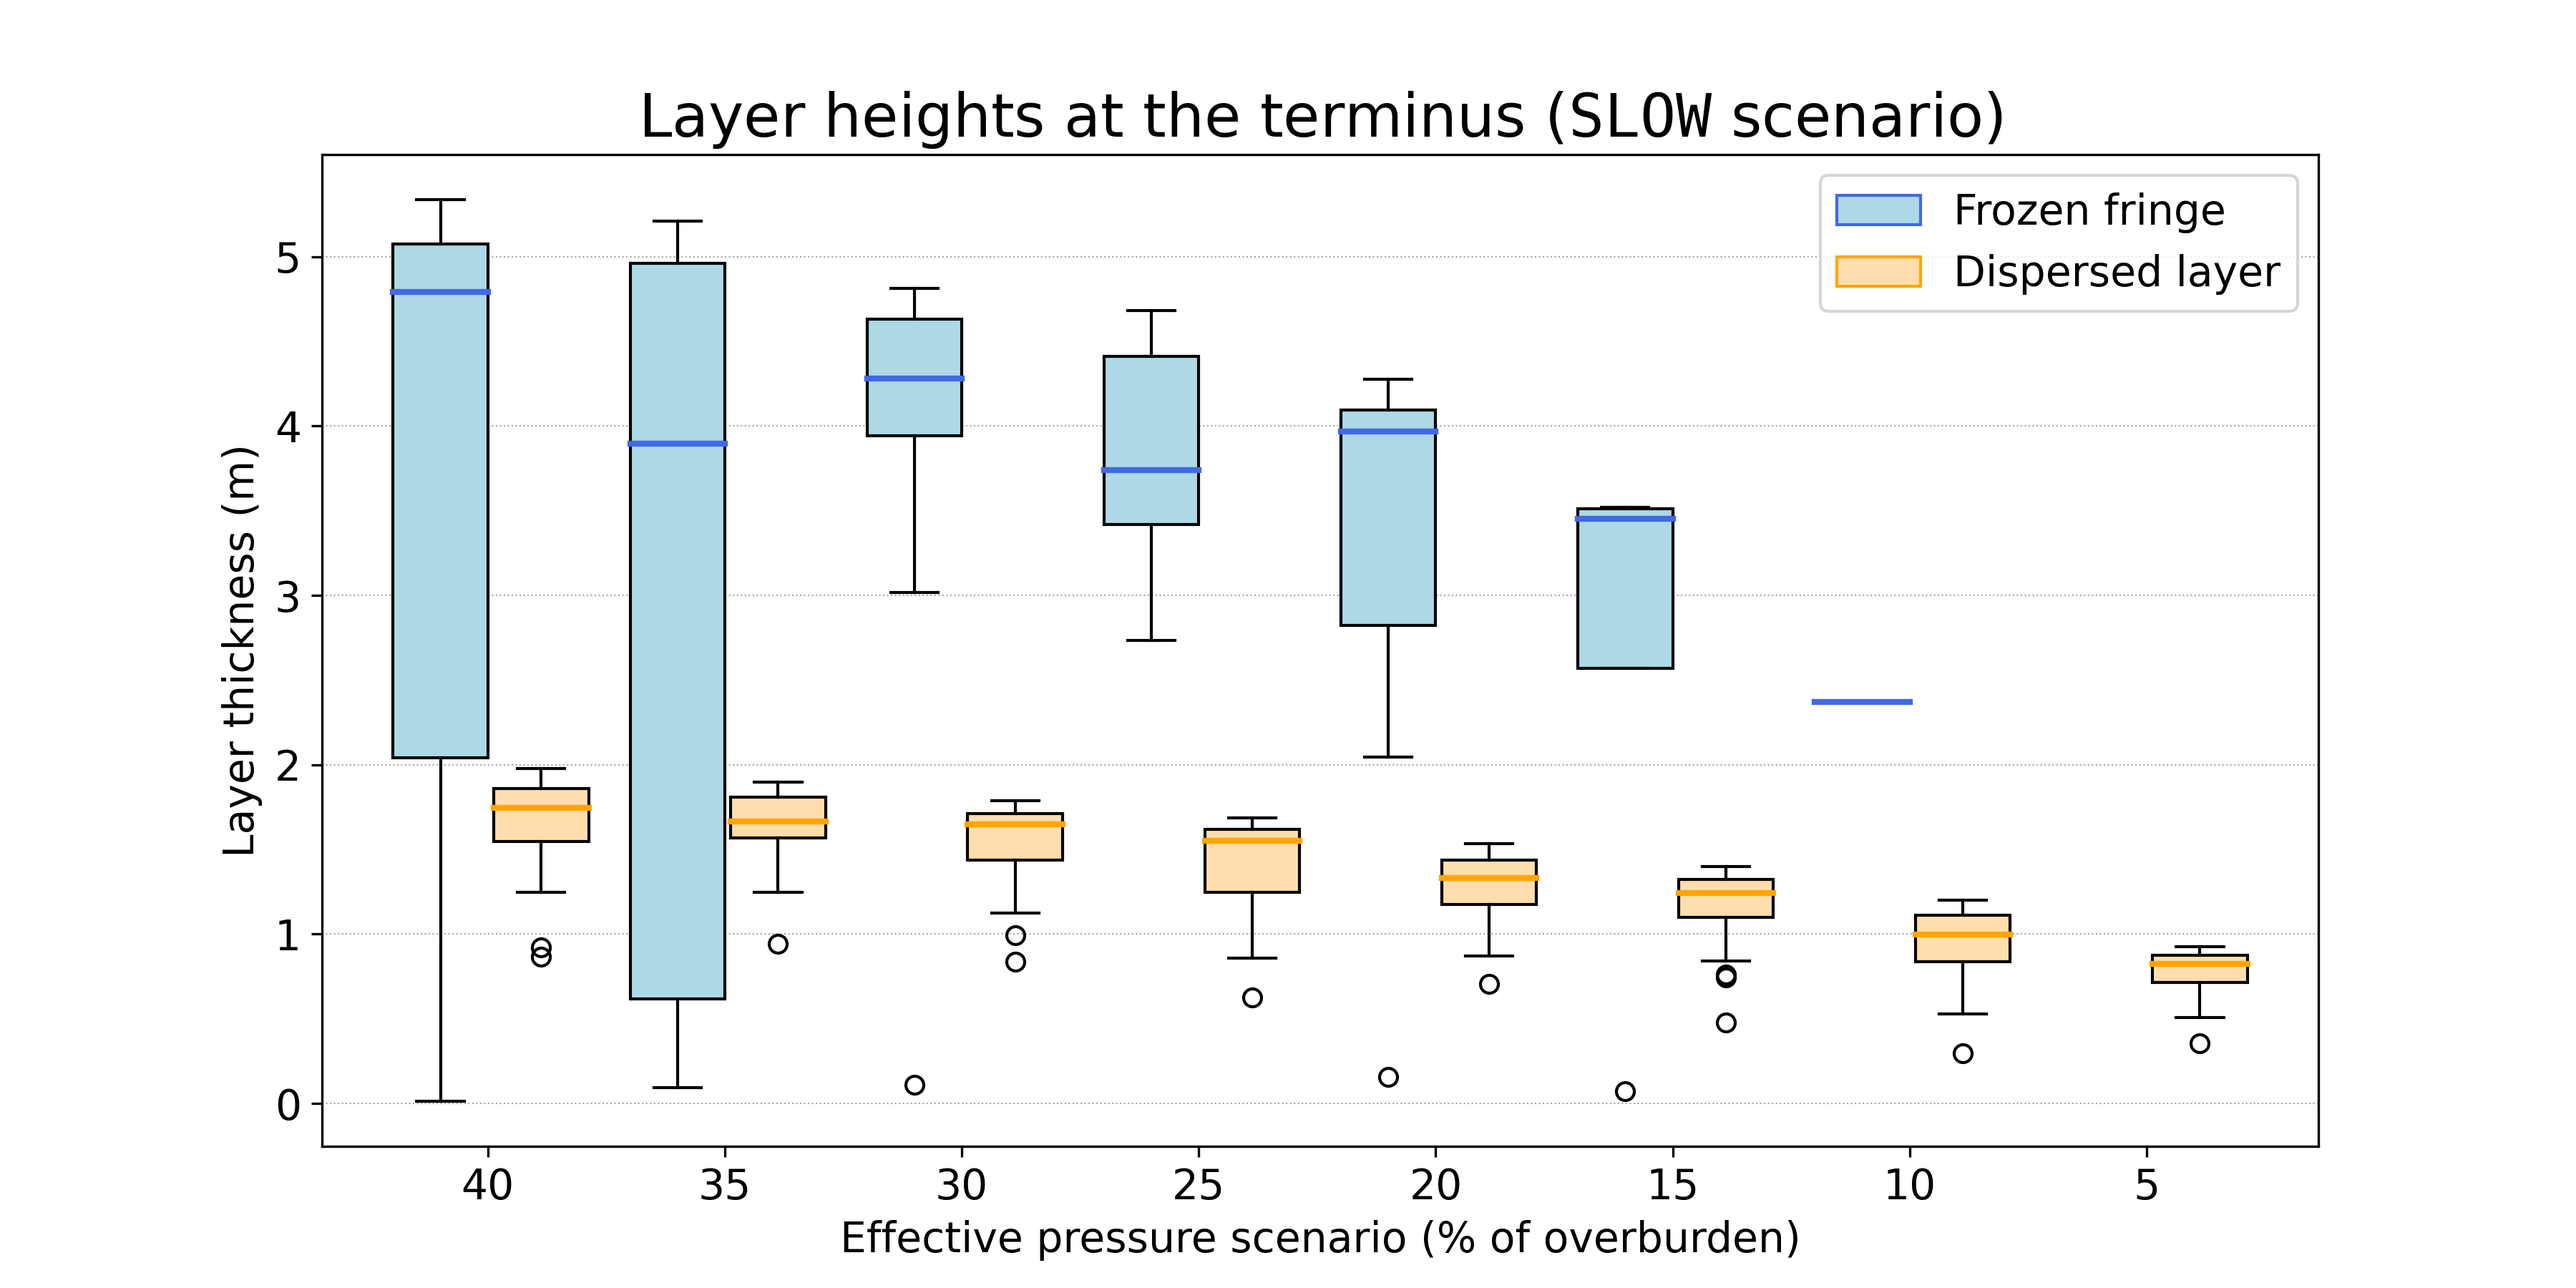
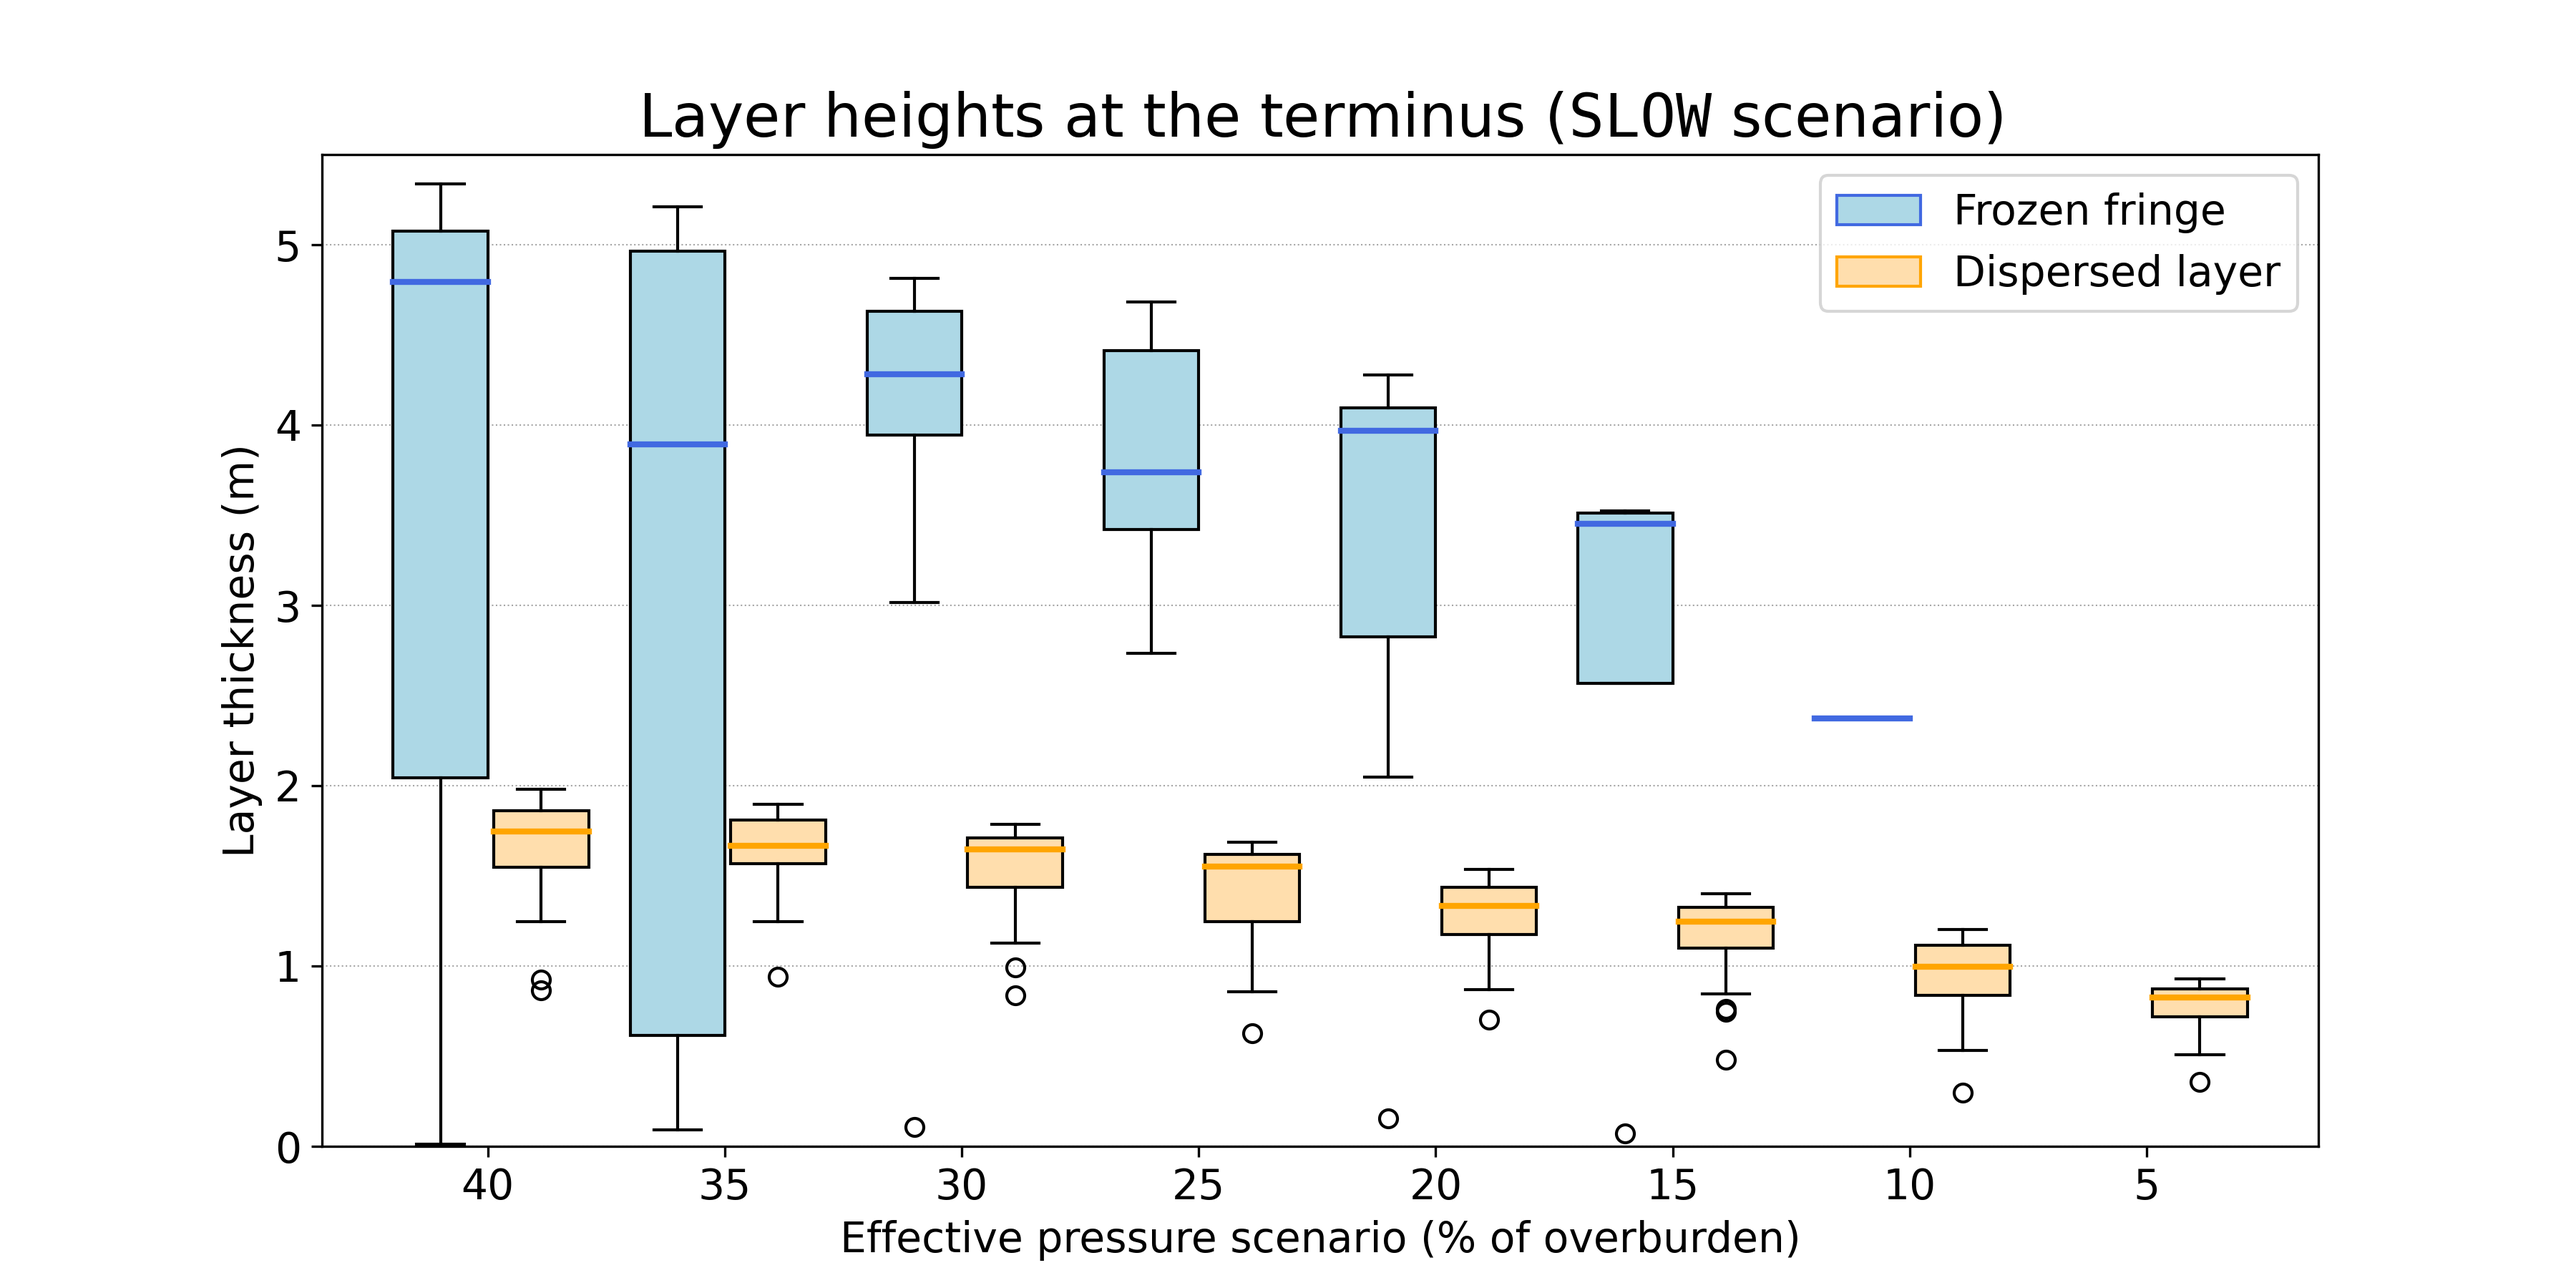
Try to change axes on layer histograms

diff --git a/experiments/static-effective-pressure/plot_flux_histogram.py b/experiments/static-effective-pressure/plot_flux_histogram.py
@@ -51,7 +51,6 @@ print(np.sum(fluxes['slow']['dispersed'], axis = 1))
 print(np.sum(fluxes['fast']['fringe'], axis = 1))
 print(np.sum(fluxes['fast']['dispersed'], axis = 1))
 
-quit()
 
 cf = 'C4'
 cd = 'C5'
@@ -171,6 +170,8 @@ ax.yaxis.set_major_locator(ticker.MultipleLocator(base=1.0))
 ax.set_xticks(np.arange(len(Ns)) + 0.2)
 ax.set_xticklabels([str(100 - N) for N in Ns])
 
+ax.set_ylim([0, 5.5])
+
 ax.set_xlabel('Effective pressure scenario (% of overburden)')
 ax.set_ylabel('Layer thickness (m)')
 plt.title('Layer heights at the terminus ($\mathtt{SLOW}$ scenario)', size = 20)
@@ -219,6 +220,8 @@ ax.yaxis.set_major_locator(ticker.MultipleLocator(base=1.0))
 
 ax.set_xticks(np.arange(len(Ns)) + 0.2)
 ax.set_xticklabels([str(100 - N) for N in Ns])
+
+ax.set_ylim([0, 5.5])
 
 ax.set_xlabel('Effective pressure scenario (% of overburden)')
 ax.set_ylabel('Layer thickness (m)')
